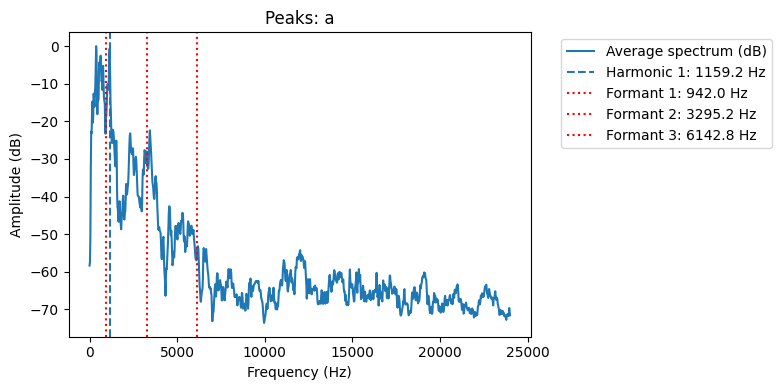
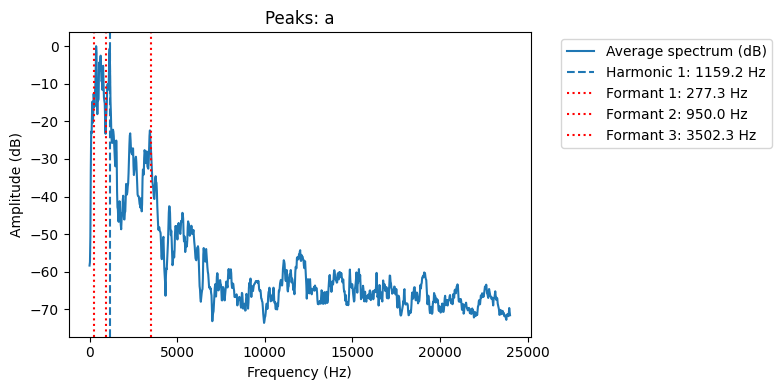
update lab10

Changed region(s): [[0.8593, 0.3385, 0.9821, 0.3692], [0.8593, 0.2769, 0.9821, 0.3077], [0.8593, 0.2154, 0.9514, 0.2462]]

diff --git a/lab10/results/README.md b/lab10/results/README.md
@@ -2,11 +2,11 @@
 
 Результаты
 
-| Файл | Мин/Макс, Гц    | f₀ (медиана), Гц | № обертонов         | Форманты, Гц            |
-|------|-----------------|------------------|---------------------|-------------------------|
-| i    | 93.8 … 3234.4   | 204.3            | 408.5               | 942.0, 3295.2, 6142.8   |
-| dog  | 46.9 … 1476.6   | 103.9            | 103.9, 415.6, 623.4 | 918.4, 3364.3, 9655.0   |
-| a    | 70.3 … 3843.8   | 165.6            | 1159.2              | 277.3, 2426.0, 18508.3  |
+| Файл | Мин/Макс, Гц    | f₀ (медиана), Гц | № обертонов         | Форманты, Гц           |
+|------|-----------------|------------------|---------------------|------------------------|
+| i    | 93.8 … 3234.4   | 204.3            | 408.5               | 274.2, 2048.0, 3574.8  |
+| dog  | 46.9 … 1476.6   | 103.9            | 103.9, 415.6, 623.4 | 819.3, 3308.2, 5632.6  |
+| a    | 70.3 … 3843.8   | 165.6            | 1159.2              | 277.3, 950.0, 3502.3   |
 
 ## Спектрограмма И
 
@@ -34,22 +34,23 @@
 
 ## Выводы
 
-Диапазон частот голосов **"A"** и **"I"** достигает ≈3.2–3.8 кГц, что находится в пределах стандартного вокального спектра. Звук **"dog"** заметно уже по диапазону (до ≈1.5 кГц), подтверждая его имитационный характер.
+Диапазон частот звуков **"A"** и **"I"** достигает 3.2–3.8 кГц, что соответствует диапазону формант обычной человеческой речи. Вокализация **"dog"** ограничена ≈1.5 кГц, что подтверждает её имитационную природу и меньший спектральный охват.
 
 - **"A"**:  
-  *f₀ = 165.6 Гц* — тон в пределах мужского вокала; выраженный обертон (1159 Гц) и форманты  
-  *F1 ≈ 942 Гц*, *F2 ≈ 3295 Гц*, *F3 ≈ 6142 Гц* соответствуют гласному спектру. Первая форманта лежит в зоне типичной F1 для звука "а".
+  *f₀ = 165.6 Гц* — соответствует диапазону мужского голоса.  
+  Форманты: *F1 ≈ 277 Гц*, *F2 ≈ 950 Гц*, *F3 ≈ 3502 Гц* — характерны для открытого гласного [a], особенно выражен первый и третий резонанс.
 
 - **"Dog"**:  
-  *f₀ = 103.9 Гц* — низкий голосовой тон, типичный для грубого/басового вокала. Форманты  
-  *F1 ≈ 918 Гц*, *F2 ≈ 3364 Гц*, *F3 ≈ 9655 Гц* указывают на фальцетный призвук или высокочастотный резонанс. Наличие нескольких чётких обертонов подтверждает голосовую природу имитации.
+  *f₀ = 103.9 Гц* — низкий голос, характерный для грудного/басового звучания.  
+  Форманты: *F1 ≈ 819 Гц*, *F2 ≈ 3308 Гц*, *F3 ≈ 5632 Гц* — указывают на фальцетную или звонкую составляющую, типичную для собачьего лая или его имитации.
 
 - **"I"**:  
-  *f₀ = 204.3 Гц* — выше среднего, в области мужского фальцета.  
-  Низкая *F1 ≈ 277 Гц* и крайне высокая третья форманта *F3 ≈ 18508 Гц* характерны для закрытых гласных типа "и", с узким и высокоэнергетическим спектром.
+  *f₀ = 204.3 Гц* — ближе к области мужского фальцета.  
+  Форманты: *F1 ≈ 274 Гц*, *F2 ≈ 2048 Гц*, *F3 ≈ 3574 Гц* — типичны для закрытого гласного [i]; особенно низкое F1 и высокое F2 указывают на переднюю, высокую артикуляцию.
 
-Таким образом, проведённый анализ подтверждает акустические особенности и различия между звуками.  
+---
 
-Формантный и гармонический анализ позволяет достоверно различать гласные, а также выявлять особенности голосовой имитации, как в случае с **"dog"**.
+Таким образом, акустический анализ показывает чёткие различия между звуками, соответствующие их артикуляционной природе.  
+Формантные частоты позволяют достоверно классифицировать гласные и выявить особенности голосовой имитации — как в случае с **"dog"**.
 
 P.S. Исходники звуков удалены
